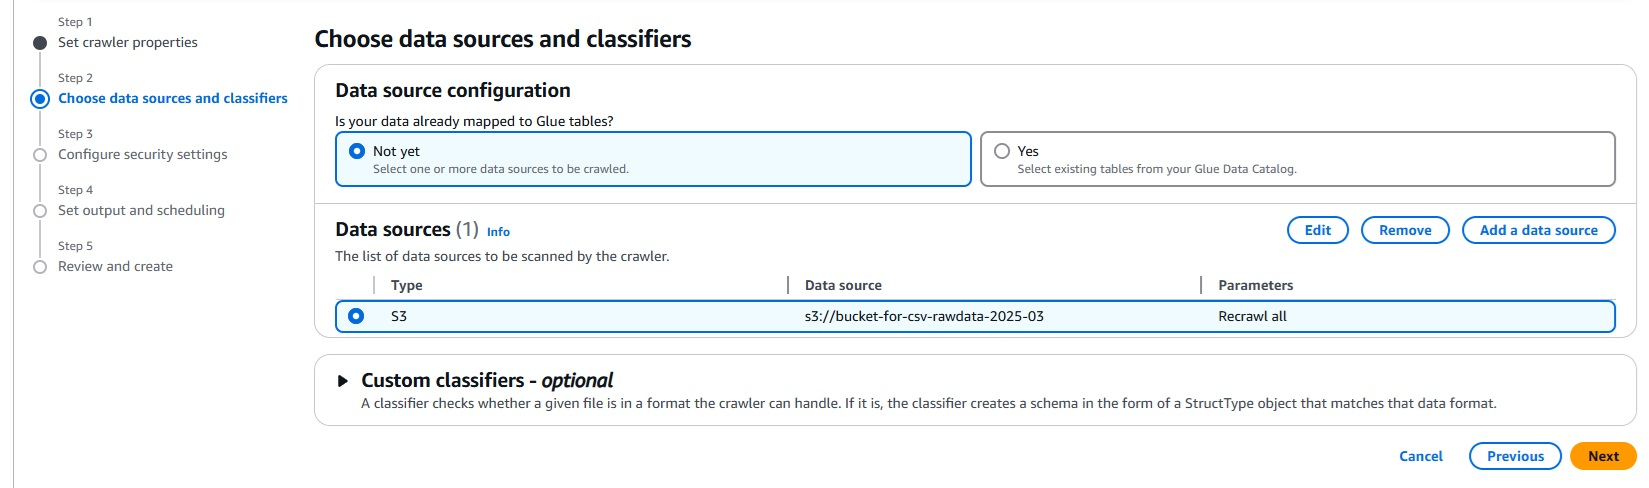
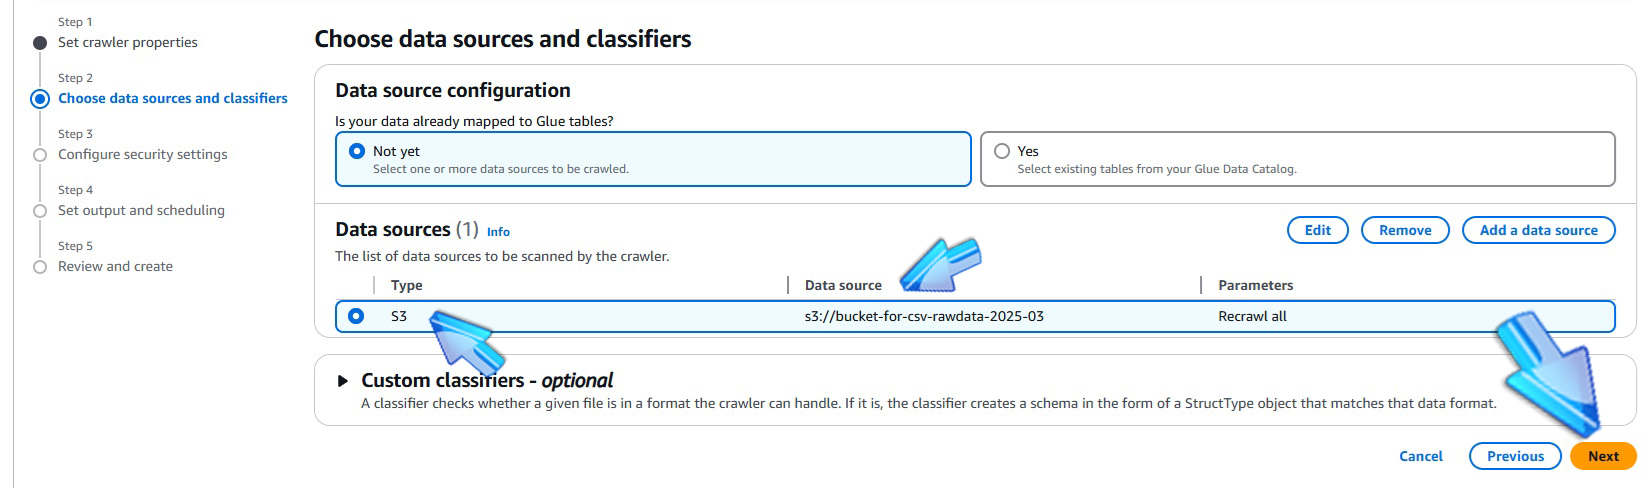
Update AWS Glue documentation image for crawler data source

diff --git a/thisisthelab.md b/thisisthelab.md
@@ -144,4 +144,13 @@
 ![AWS Glue Crawler Parametrization](./images/14a-AWSGlueCrawlerAddDataSource.jpg)
 ![AWS S3 Bucket as a Data Source](./images/15a-AWSGlueCrawlerDataSource.jpg)
 
+###### ![Brazil](https://github.com/Acheroniano/flag-icon/blob/master/png/16/country-4x3/br.png "Brazil") 
+###### Confira a parametrização do *Data Source* com o bucket *bucket-for-csv-rawdata-2025-03*
+
+###### ![United States](https://github.com/Acheroniano/flag-icon/blob/master/png/16/country-4x3/us.png "United States") 
+###### Check *Data Source* parametrization with the bucket *bucket-for-csv-rawdata-2025-03*
+
+![AWS Glue Crawler with a S3 bucket as Data Source](./images/16a-AWSGlueCrawlerDataSource.jpg)
+
+
 
